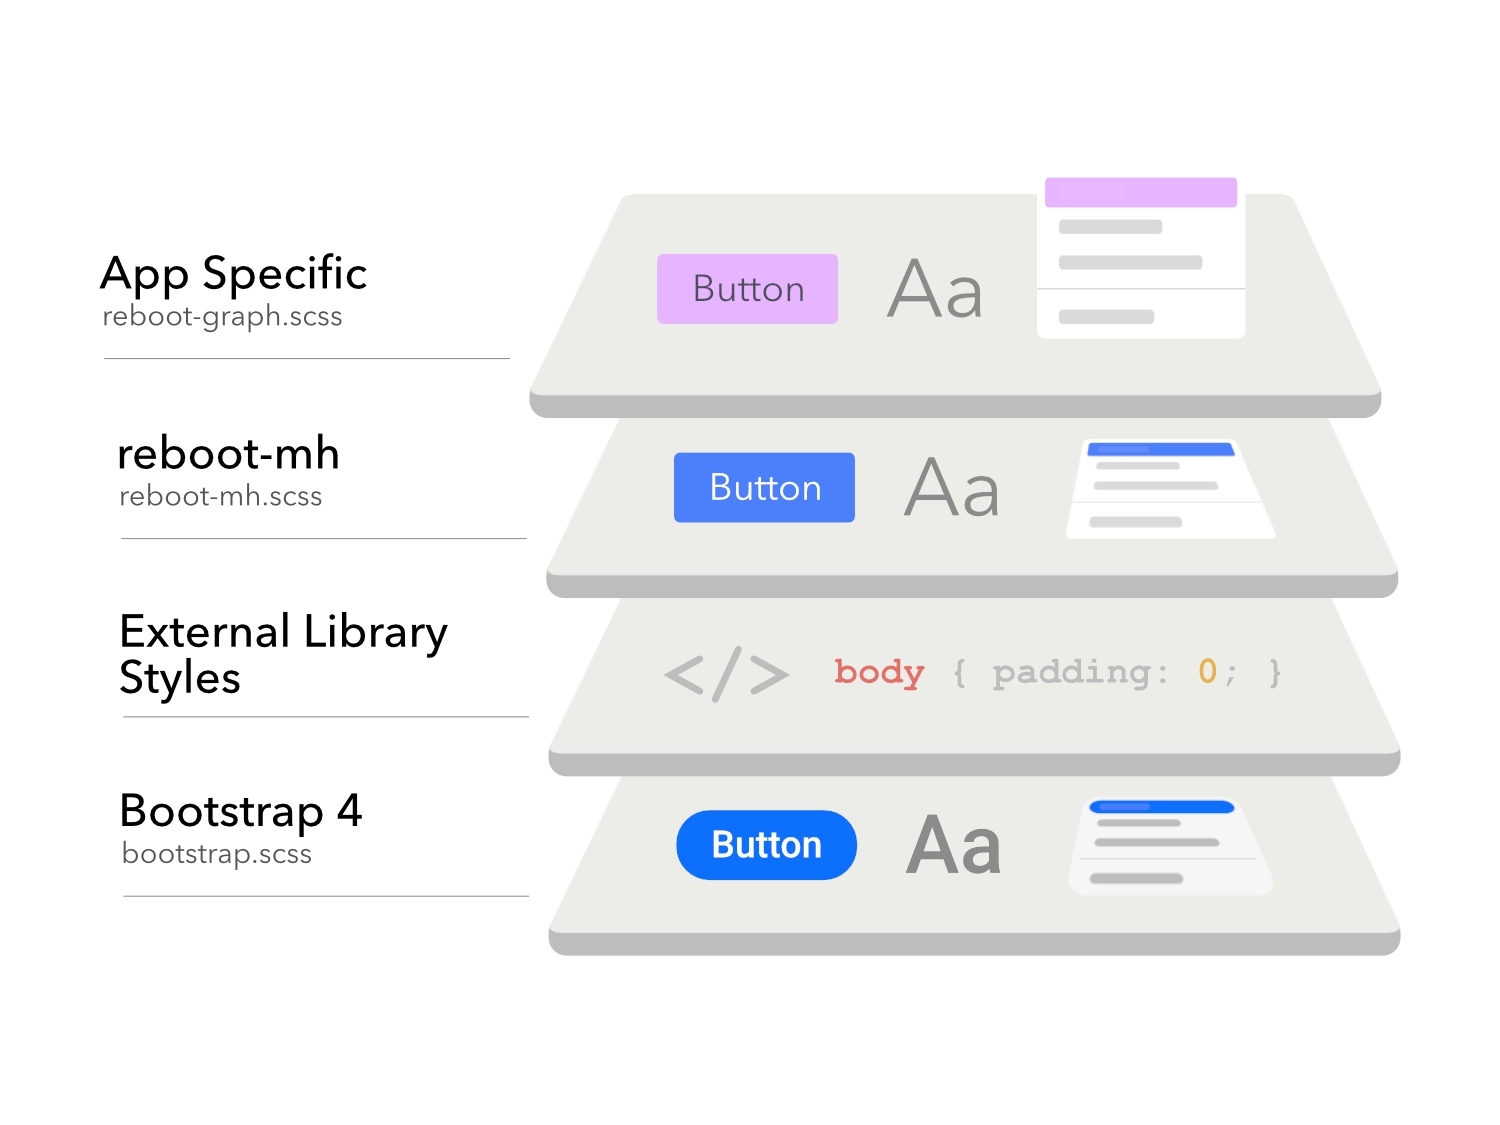
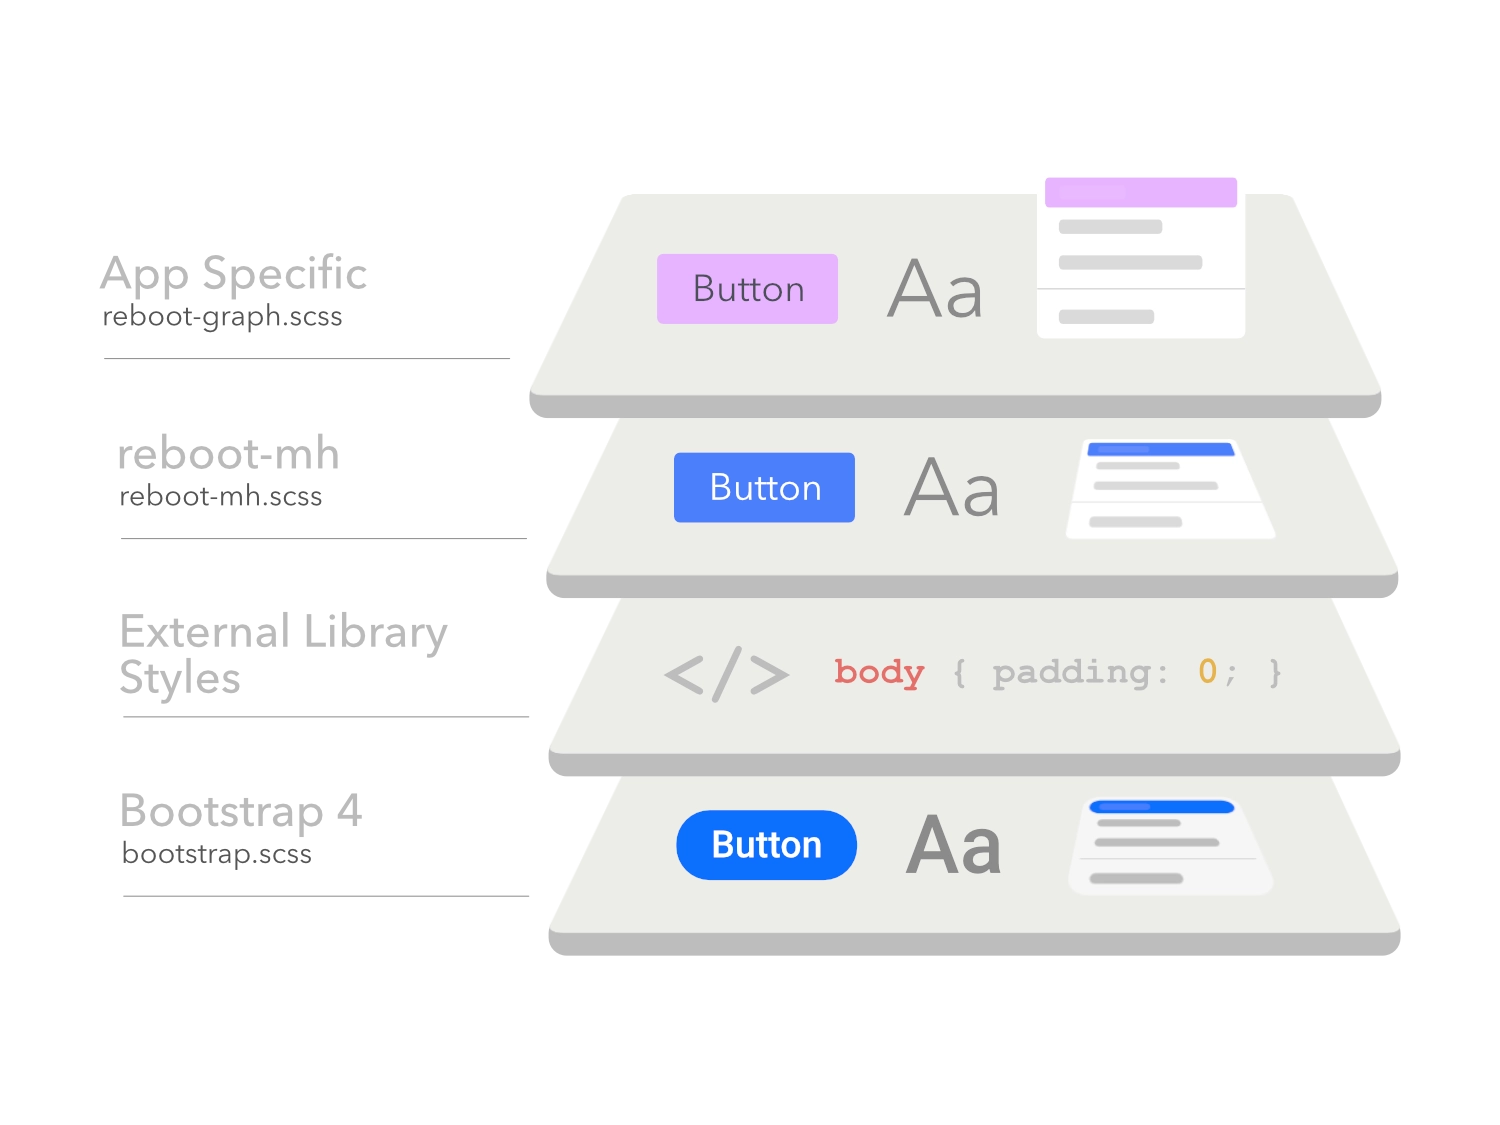
Fix graphics for dark

diff --git a/new-portfolio/preview/index.html b/new-portfolio/preview/index.html
@@ -35,14 +35,14 @@
 
   <section class="wrap-width">
     <h2><p class="heading" id="work">Apple</p></h2>
-    <p id="ship">Beats Electronics</p>
+    <p>Beats Electronics</p>
     <!-- <p class="section-intro">From hover states to beer</p> -->
     <div class="gallery-entry__wide">
       <div class="gallery-entry__media">
         <img src="assets/images/pexels-laurachouette-22696331.webp" />
       </div>
       <p class="gallery-entry__media-credit">Photo: <a href="https://www.pexels.com/photo/wireless-headphones-and-tablet-22696331/" target="_blank" rel="noopener" class="link-border">Laura Chouette</a></p>
-      <div class="gallery-entry__text">
+      <div id="ship" class="gallery-entry__text">
         <h3 class="subhead">Headphones, earbuds, speakers & accessories</h3>
         <p>I led the Beats Human Interface (HI) team to deliver end-to-end experiences across 7+ shipped hardware products and companion software experiences, including the Beats app for Android and new capabilities like USB Audio and heart rate monitoring. I drove feature scope decisions with cross-functional teams and senior leadership, navigating platform, cost, and tight program timelines to determine what we could deliver and when.</p>
         <p>As the Beats portfolio doubled, I served as DRI on key launches while building and scaling the HI organization through hiring, training, and mentoring designers across levels. I established the structure, processes, and support needed for the team to operate confidently while delivering against program milestones.</p>

diff --git a/new-portfolio/preview/assets/css/main.css b/new-portfolio/preview/assets/css/main.css
@@ -441,6 +441,9 @@ section { padding: 40px 0; }
   .highlight-image.earbuds  {
     background-image: url(../images/product-bud-in-ear-dark.svg);
   }
+  .highlight-image.headphones {
+    background-image: url(../images/product-headphones-dark.svg);
+  }
 }
 
 .gallery-entry { display: flex; gap: 32px; align-items: center; margin-bottom: 48px; }
